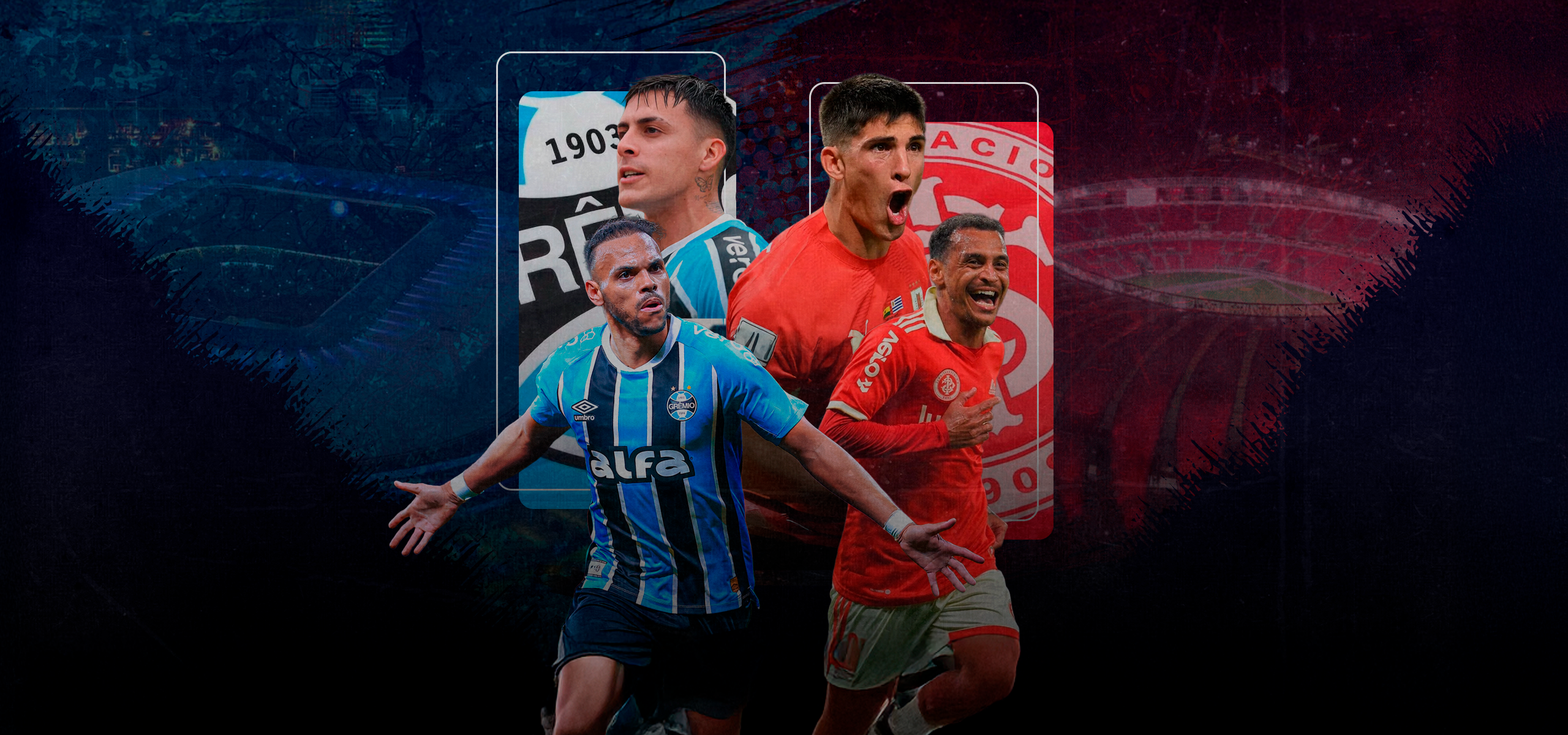
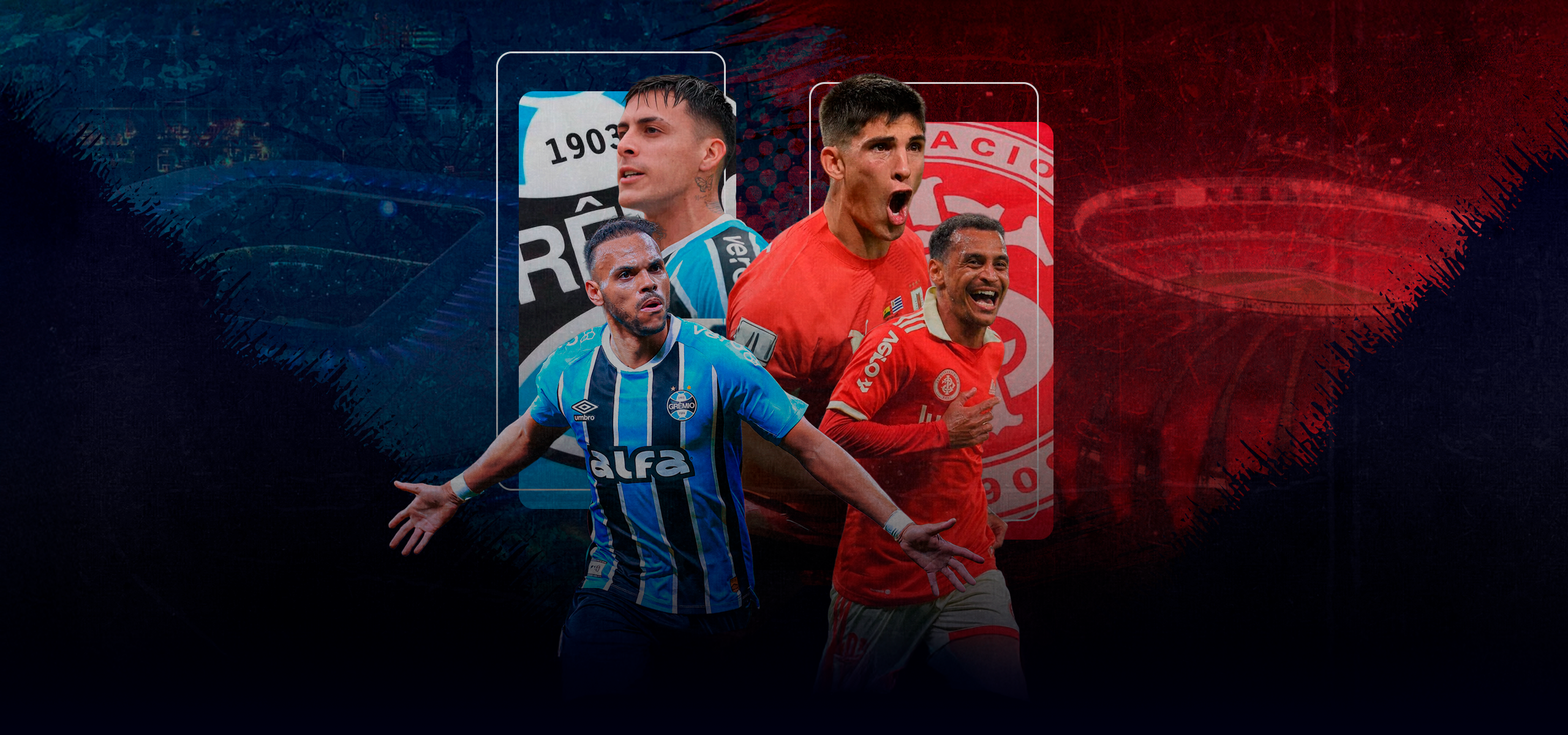
Atualiza imagens e CSS da landing page

diff --git a/style.css b/style.css
@@ -1,6 +1,10 @@
 /* ========================================
    RESET E CONFIGURAÇÕES BÁSICAS
 ======================================== */
+:root {
+  color-scheme: only light;
+}
+
 * {
     box-sizing: border-box;
 }
@@ -318,7 +322,7 @@ body {
 
     .hero-header {
         height: 320px;
-        background-image: url('./assets/images/hero-375.png');
+        background-image: url('./assets/images/hero-3752.png');
         background-position: center top;
         border-radius: 1rem;
         overflow: hidden;
